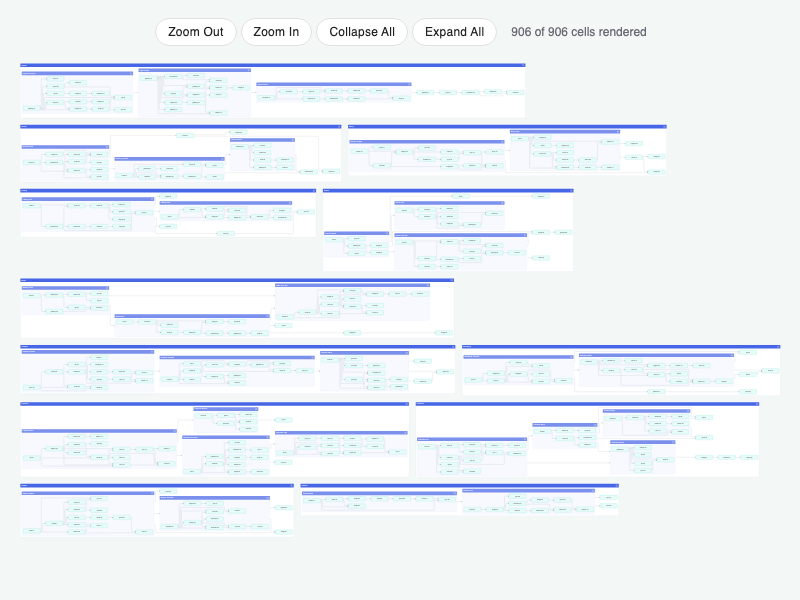
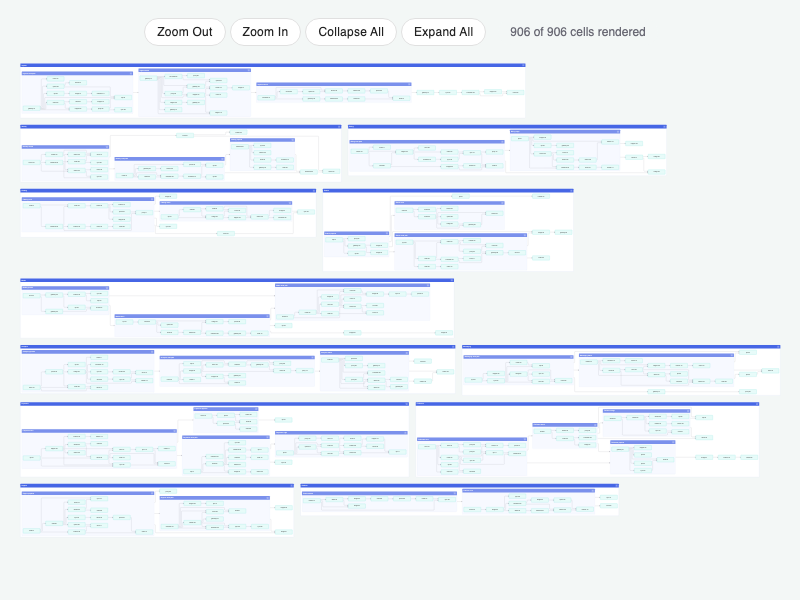
docs: describe the demo and refresh the screenshot
Both READMEs follow the JointJS+ demo layout - the badge, the link to
jointjs.com, the features, the controls, the file structure and the
access token instructions. Align the demo version with the rest of the
repository.

Changed region(s): [[0.1875, 0.03, 0.8125, 0.06]]

diff --git a/elk-layout-collapsible-clusters/ts/README.md b/elk-layout-collapsible-clusters/ts/README.md
@@ -1,10 +1,8 @@
-# JointJS: ELK Layout with Collapsible Clusters (TypeScript)
+# JointJS+: ELK Layout with Collapsible Clusters (TypeScript) <a href="https://www.jointjs.com/jointjs-plus"><img src="../../jointjs-plus-badge.svg" alt="JointJS+" width="123" align="right" /></a>
 
-A large hierarchical diagram - about a thousand cells - laid out by the Eclipse Layout Kernel (ELK) via the [elkjs](https://github.com/kieler/elkjs) library.
+A diagram of about a thousand cells, arranged into nested clusters by the Eclipse Layout Kernel (ELK) via the [elkjs](https://github.com/kieler/elkjs) library. Every cluster collapses to its header, and only the cells within the visible area of the paper scroller are rendered.
 
-- Every cluster has a button in its header which collapses it. The content of a collapsed cluster is pruned from the ELK graph, so the whole diagram is laid out again around the collapsed cluster.
-- The diagram is displayed in a `ui.PaperScroller` with the `virtualRendering` option turned on. Together with the `viewManagement` option of the paper, the views are created for the cells within the visible area only.
-- Links connect the children of a single cluster, they never cross a cluster boundary.
+This demo is also available online at [jointjs.com](https://jointjs.com/demos/elk-layout-collapsible-clusters).
 
 <a href="https://stackblitz.com/github/clientio/joint-demos/tree/main/elk-layout-collapsible-clusters/ts" target="_blank">
   <img
@@ -13,7 +11,51 @@ A large hierarchical diagram - about a thousand cells - laid out by the Eclipse 
   />
 </a>
 
-This demo is also available online at [jointjs.com](https://jointjs.com/demos/elk-layout-collapsible-clusters).
+## Features
+
+- **Virtual rendering** -- the `virtualRendering` option of `ui.PaperScroller` renders the cells within the visible area only. Together with the `viewManagement` option of the paper, a view is created when a cell scrolls in and thrown away when it scrolls out. The toolbar shows how many of the cells are in the DOM at the moment.
+- **Collapsible clusters** -- the button in the header of a cluster hides its content. The content is pruned from the ELK graph, so the diagram is laid out again around the collapsed cluster. The button stays at the same position on the screen, however far the layout moves the cluster.
+- **Hierarchical ELK layout** -- the clusters are packed by the `rectpacking` algorithm, the content of each of them is arranged by the `layered` algorithm with orthogonal edge routing.
+- **A generated diagram** -- 12 top-level clusters with nested clusters and leaf nodes, about 900 cells in total. The generator is deterministic, so every run gives the same diagram.
+
+## Controls
+
+| Action | Result |
+|--------|--------|
+| Wheel / two-finger swipe | Scroll the diagram |
+| Ctrl + wheel / pinch | Zoom in and out |
+| Drag | Pan the diagram |
+| The `-` / `+` button in a cluster header | Collapse or expand the cluster |
+| Collapse All / Expand All | Toggle every cluster at once (a single layout run) |
+
+## Project Structure
+
+| File | Description |
+|------|-------------|
+| `src/main.ts` | App entry point -- styles and the application start |
+| `src/app.ts` | The paper, the paper scroller, the virtual rendering setup, the collapsing and the toolbar |
+| `src/dataset.ts` | Generates the diagram description (clusters, children, links). Deterministic -- the same diagram on every run |
+| `src/layout.ts` | Creates the JointJS cells once, converts the description into an ELK graph (skipping the collapsed clusters) and applies the layout result back to the graph |
+| `src/shapes.ts` | The `Cluster`, `Leaf` and `Edge` cell types. The collapse button is a part of the cluster markup and triggers a custom paper event |
+| `src/styles.css` | Layout, toolbar and collapse button styles |
+
+## How it works
+
+**The cells are created once.** `createCells()` builds the whole graph, including the content of the clusters which are collapsed later on. A layout only changes the geometry of the cells: `element.set()` is used instead of `element.position()` and `element.resize()`, because ELK positions the children of an element as well and they must not be moved along with their parent.
+
+**Collapsing** sets the `collapsed` attribute of the cluster, which schedules a layout. `createElkGraph()` then leaves the content of the collapsed clusters out and gives the cluster the size of its header. The cells which are left out keep the geometry of the previous layout - they are not rendered, and they are not measured either:
+
+```ts
+function isCellVisible(cell: dia.Cell): boolean {
+    return !cell.getAncestors().some(
+        (ancestor) => Cluster.isCluster(ancestor) && ancestor.isCollapsed()
+    );
+}
+```
+
+The very same function decides what the paper renders (as the `cellVisibility` callback of the virtual rendering controller, which combines it with its own viewport check) and what the paper is sized to (`getVisibleContentArea()`). Note that the links are reparented into the cluster of their endpoints, so the check applies to them without any special case.
+
+**No link crosses a cluster boundary** in this example. That lets each cluster be laid out on its own (`elk.hierarchyHandling: SEPARATE_CHILDREN`) and keeps a collapsed cluster free of links pointing into the nothing.
 
 ## How to download this demo
 
@@ -58,13 +100,8 @@ And then start the application with:
 npm run dev
 ```
 
-## Project Structure
+To create a production build, run:
 
-| File | Description |
-|------|-------------|
-| `src/main.ts` | App entry point -- styles and the application start |
-| `src/app.ts` | The paper, the paper scroller, the virtual rendering setup, the collapsing and the toolbar |
-| `src/dataset.ts` | Generates the example diagram description (clusters, children, links). Deterministic - the same diagram on every run |
-| `src/layout.ts` | Creates the JointJS cells once, converts the description into an ELK graph (skipping the collapsed clusters) and applies the layout result back to the graph |
-| `src/shapes.ts` | The `Cluster`, `Leaf` and `Edge` cell types. The collapse button is a part of the cluster markup and triggers a custom paper event |
-| `src/styles.css` | Layout and toolbar styles |
+```bash
+npm run build
+```

diff --git a/elk-layout-collapsible-clusters/README.md b/elk-layout-collapsible-clusters/README.md
@@ -1,6 +1,8 @@
-# JointJS: ELK Layout with Collapsible Clusters
+# JointJS+: ELK Layout with Collapsible Clusters <a href="https://www.jointjs.com/jointjs-plus"><img src="../jointjs-plus-badge.svg" alt="JointJS+" width="123" align="right" /></a>
 
-A large hierarchical diagram laid out by the Eclipse Layout Kernel (ELK). Every cluster can be collapsed to hide its content, and only the cells within the visible area of the paper scroller are rendered.
+A diagram of about a thousand cells, arranged into nested clusters by the Eclipse Layout Kernel (ELK). Every cluster collapses to its header, and the whole diagram is laid out again around it. Only the cells within the visible area of the paper scroller are rendered, so the size of the diagram does not slow the application down.
+
+This demo is also available online at [jointjs.com](https://jointjs.com/demos/elk-layout-collapsible-clusters).
 
 ## Available Versions
 
